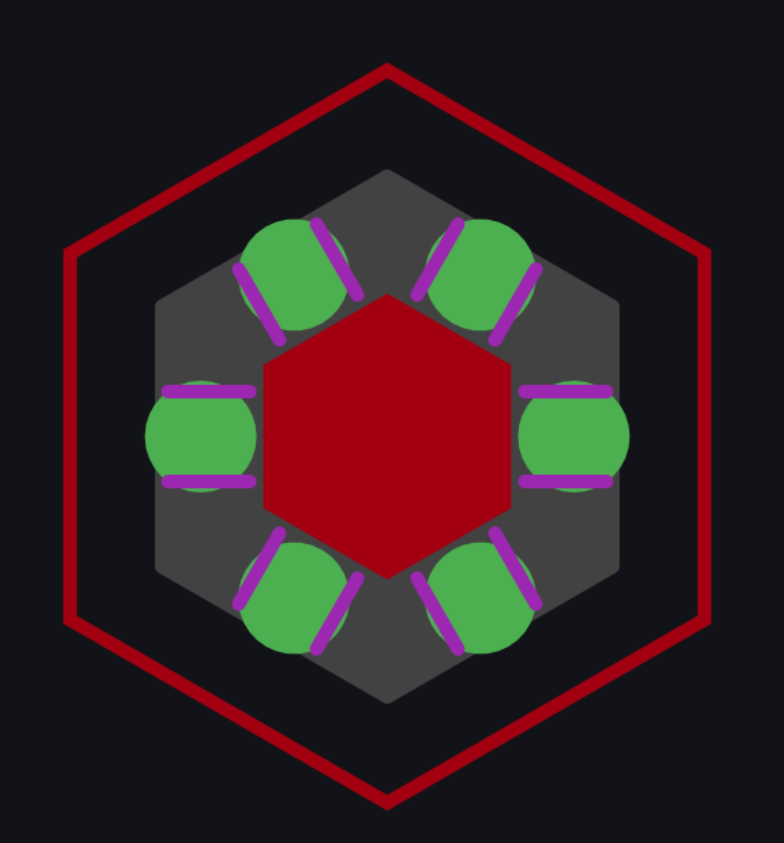
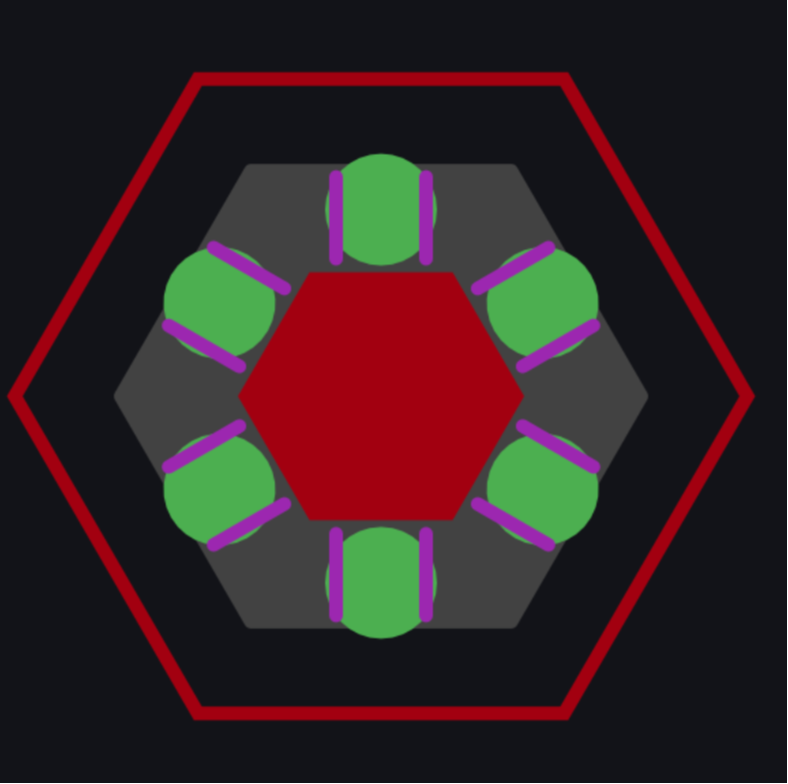
New Interface

diff --git a/Example/src/main/deploy/UIv1/style.css b/Example/src/main/deploy/UIv1/style.css
@@ -18,7 +18,7 @@ body {
     max-width: 550px;
     max-height: 500px;
     margin: 2% auto;
-    background: url('reef_hexagon.png') no-repeat center;
+    background: url('images/background.png') no-repeat center;
     background-size: contain;
     display: inline-block;
 }  
@@ -42,7 +42,7 @@ body {
     margin-right: 5%;
 }
 #reef-position {
-    background-image: url('images/reef.png');
+    background-image: url('images/reef-blue.png');
 }
 
 .button {
@@ -65,6 +65,8 @@ body {
 .level-button {
     background-color: #a1a4a1;
     color: white;
+    max-width: 75px;
+    max-height: 75px;
 }
 .button:hover {
     transform: scale(1.1);
@@ -72,18 +74,30 @@ body {
 }
 
 
-#A { top: 36.5%; left: 5%; }
-#B { top: 53.5%; left: 5%; }
-#C { top: 72%; left: 16%; }
-#D { top: 83%; left: 32%; }
-#E { top: 83%; left: 55%; }
-#F { top: 72%; left: 72%; }
-#G { top: 53.5%; left: 82.5%; }
-#H { top: 36.5%; left: 82.5%; }
-#I { top: 17%; left: 72%; }
-#J { top: 7%; left: 55%; }
-#K { top: 7%; left: 32%; }
-#L { top: 17%; left: 16%; }
+/*#A { top: 36.5%; left: 5%; }
+#B { top: 53.5%; left: 5%; }*/
+/*#C { top: 72%; left: 16%; }
+#D { top: 83%; left: 32%; }*/
+#A { top: 85%; left: 37%; }
+/*#E { top: 83%; left: 55%; }*/
+#B { top: 85%; left: 53%; }
+/*#F { top: 72%; left: 72%; }*/
+#C { top: 72%; left: 72%; }
+/*#G { top: 53.5%; left: 82.5%; }*/
+#D { top: 56%; left: 80%; }
+/*#H { top: 36.5%; left: 82.5%; }*/
+#E { top: 34%; left: 80%; }
+/*#I { top: 17%; left: 72%; }*/
+#F { top: 19%; left: 72%; }
+/*#J { top: 7%; left: 55%; }*/
+#G { top: 6%; left: 53%; }
+/*#K { top: 7%; left: 32%; }*/
+#H { top: 6%; left: 37%; }
+/*#L { top: 17%; left: 16%; }*/
+#I { top: 19%; left: 16%; }
+#J { top: 34%; left: 9%; }
+#K { top: 56%; left: 9%; }
+#L { top: 72%; left: 16%; }
 
 #L4 { top: 8%; left: 50%; }
 #L3 { top: 35%; left: 50%; }

diff --git a/Example/src/main/deploy/UIv1/index.html b/Example/src/main/deploy/UIv1/index.html
@@ -151,7 +151,8 @@
         }
 
         // If a Level button was previously clicked and the user clicks outside of the buttons, change its color back to gray
-        if (buttonClickedLevel && !event.target.classList.contains('level-button') && !event.target.classList.contains('reef-button')) {
+        if (buttonClickedLevel && !event.target.classList.contains('level-button') && !event.target.classList.contains('reef-button')
+                && (event.target.id === 'reef-pipe' || event.target.id === 'img-pipe')) {
             // Set the value of the button to false
             NetworkTables.putValue('/SmartDashboard/' + previousButtonLevel.id + 'ButtonValue',false);
             // Change the color of the button to gray
@@ -210,7 +211,7 @@
             alliance.style.backgroundColor = "#3F51B5";
             alliance.style.backgroundPosition = "40%";
             // Change the image to the blue reef
-            image.style.backgroundImage = "url('images/reef.png')";
+            image.style.backgroundImage = "url('images/reef-blue.png')";
         }
     }
 
